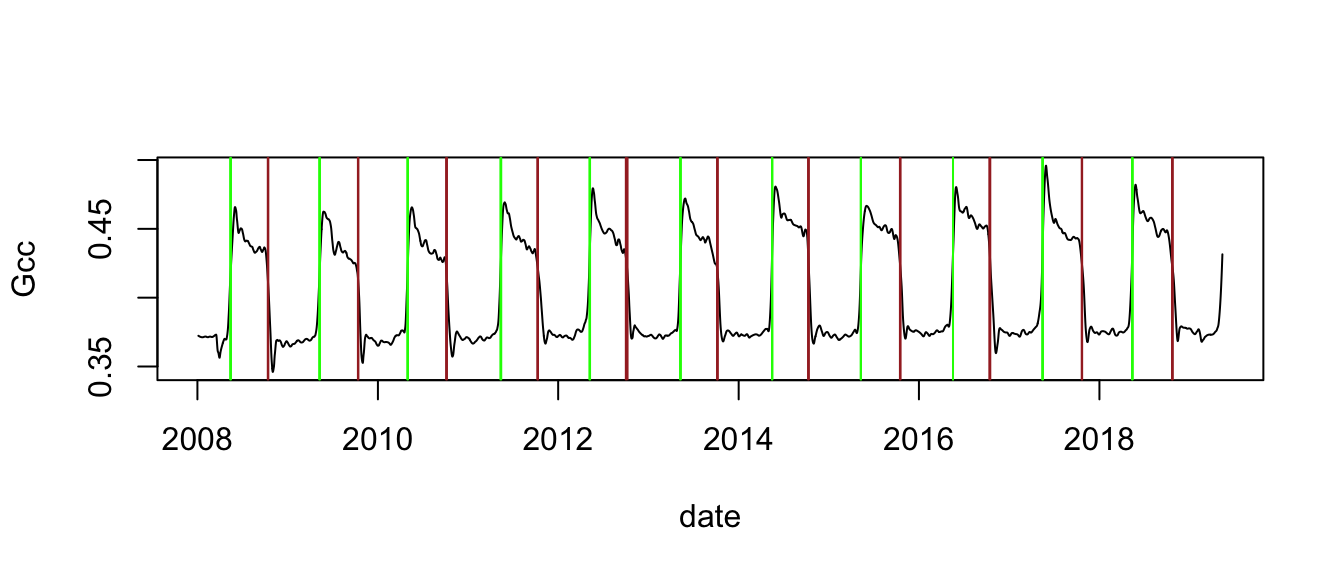
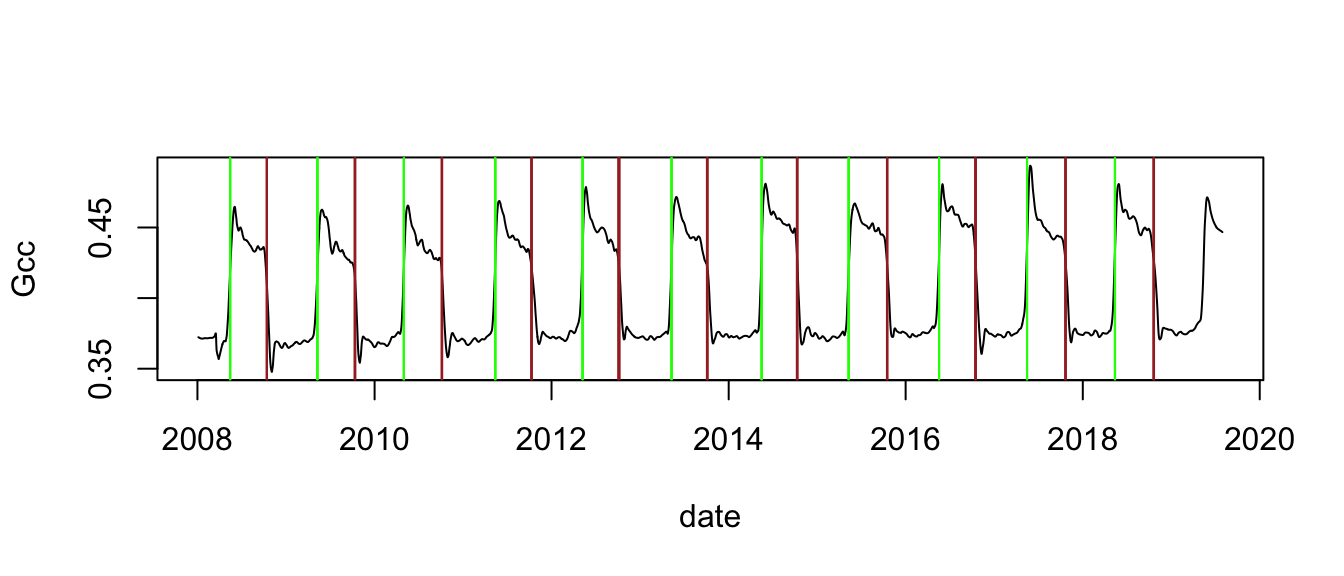
docs

diff --git a/docs/articles/phenocamr-vignette.html b/docs/articles/phenocamr-vignette.html
@@ -30,7 +30,7 @@
       </button>
       <span class="navbar-brand">
         <a class="navbar-link" href="../index.html">phenocamr</a>
-        <span class="version label label-default" data-toggle="tooltip" data-placement="bottom" title="Released version">1.1.3</span>
+        <span class="version label label-default" data-toggle="tooltip" data-placement="bottom" title="Released version">1.1.4</span>
       </span>
     </div>
 
@@ -76,7 +76,7 @@
       <h1>phenocamr</h1>
                         <h4 class="author">Koen Hufkens</h4>
             
-            <h4 class="date">2019-02-15</h4>
+            <h4 class="date">2019-05-03</h4>
       
       
       <div class="hidden name"><code>phenocamr-vignette.Rmd</code></div>
@@ -99,12 +99,12 @@
 <div class="sourceCode" id="cb1"><pre class="sourceCode r"><code class="sourceCode r"><a class="sourceLine" id="cb1-1" title="1">sites &lt;-<span class="st"> </span><span class="kw"><a href="../reference/list_sites.html">list_sites</a></span>()</a>
 <a class="sourceLine" id="cb1-2" title="2"><span class="kw"><a href="https://www.rdocumentation.org/packages/utils/topics/head">head</a></span>(sites)</a>
 <a class="sourceLine" id="cb1-3" title="3"><span class="co">#&gt;   wwf_biome nimage</span></a>
-<a class="sourceLine" id="cb1-4" title="4"><span class="co">#&gt; 1         4  43937</span></a>
+<a class="sourceLine" id="cb1-4" title="4"><span class="co">#&gt; 1         4  44484</span></a>
 <a class="sourceLine" id="cb1-5" title="5"><span class="co">#&gt; 2        12  36615</span></a>
 <a class="sourceLine" id="cb1-6" title="6"><span class="co">#&gt; 3        12   2639</span></a>
-<a class="sourceLine" id="cb1-7" title="7"><span class="co">#&gt; 4         5  45890</span></a>
+<a class="sourceLine" id="cb1-7" title="7"><span class="co">#&gt; 4         5  46895</span></a>
 <a class="sourceLine" id="cb1-8" title="8"><span class="co">#&gt; 5         4   1452</span></a>
-<a class="sourceLine" id="cb1-9" title="9"><span class="co">#&gt; 6         5  46544</span></a>
+<a class="sourceLine" id="cb1-9" title="9"><span class="co">#&gt; 6         5  48307</span></a>
 <a class="sourceLine" id="cb1-10" title="10"><span class="co">#&gt;                                                                                                                                                                                                                 site_acknowledgements</span></a>
 <a class="sourceLine" id="cb1-11" title="11"><span class="co">#&gt; 1                                                                                                                   Camera images from Acadia National Park are provided courtesy of the National Park Service Air Resources Program.</span></a>
 <a class="sourceLine" id="cb1-12" title="12"><span class="co">#&gt; 2                                                                                                         Camera images from Agua Tibia Wilderness are provided courtesy of the USDA Forest Service Air Resources Management Program.</span></a>
@@ -113,12 +113,12 @@
 <a class="sourceLine" id="cb1-15" title="15"><span class="co">#&gt; 5                                                                                                                                                                                                                                    </span></a>
 <a class="sourceLine" id="cb1-16" title="16"><span class="co">#&gt; 6 Research at the Alligator River flux site is supported by DOE NICCR (award 08-SC-NICCR-1072), DOE-TES (awards 11-DE-SC-0006700 and 7090112), USDA Forest Service (award 13-JV-11330110-081) and USDA-NIFA (award 2014-67003-22068).</span></a>
 <a class="sourceLine" id="cb1-17" title="17"><span class="co">#&gt;   MAT_site   date_end landcover_igbp koeppen_geiger           site</span></a>
-<a class="sourceLine" id="cb1-18" title="18"><span class="co">#&gt; 1       NA 2019-02-14              5            Dfb         acadia</span></a>
+<a class="sourceLine" id="cb1-18" title="18"><span class="co">#&gt; 1       NA 2019-03-27              5            Dfb         acadia</span></a>
 <a class="sourceLine" id="cb1-19" title="19"><span class="co">#&gt; 2       NA 2019-01-25              7            Csa  aguatibiaeast</span></a>
 <a class="sourceLine" id="cb1-20" title="20"><span class="co">#&gt; 3       NA 2006-10-25              7            Csa aguatibianorth</span></a>
-<a class="sourceLine" id="cb1-21" title="21"><span class="co">#&gt; 4       NA 2019-02-14              8            Csb       ahwahnee</span></a>
+<a class="sourceLine" id="cb1-21" title="21"><span class="co">#&gt; 4       NA 2019-05-02              8            Csb       ahwahnee</span></a>
 <a class="sourceLine" id="cb1-22" title="22"><span class="co">#&gt; 5       NA 2015-10-13             13            Cfa      alleypond</span></a>
-<a class="sourceLine" id="cb1-23" title="23"><span class="co">#&gt; 6     16.6 2019-02-14              5            Cfa alligatorriver</span></a>
+<a class="sourceLine" id="cb1-23" title="23"><span class="co">#&gt; 6     16.6 2019-05-02              5            Cfa alligatorriver</span></a>
 <a class="sourceLine" id="cb1-24" title="24"><span class="co">#&gt;   infrared active MAT_daymet site_type      lat ecoregion</span></a>
 <a class="sourceLine" id="cb1-25" title="25"><span class="co">#&gt; 1        N   TRUE       7.05       III 44.37694         8</span></a>
 <a class="sourceLine" id="cb1-26" title="26"><span class="co">#&gt; 2        N   TRUE      15.75       III 33.62200        11</span></a>
@@ -194,17 +194,17 @@
 <a class="sourceLine" id="cb2-9" title="9"><span class="co">#&gt; 6                                                           understory plants</span></a>
 <a class="sourceLine" id="cb2-10" title="10"><span class="co">#&gt;   first_date      site      lat site_years missing_data_pct veg_type</span></a>
 <a class="sourceLine" id="cb2-11" title="11"><span class="co">#&gt; 1 2007-03-15    acadia 44.37694        9.8                7       DB</span></a>
-<a class="sourceLine" id="cb2-12" title="12"><span class="co">#&gt; 2 2017-10-11    acadia 44.37694        1.3                6       DB</span></a>
+<a class="sourceLine" id="cb2-12" title="12"><span class="co">#&gt; 2 2017-10-11    acadia 44.37694        1.4                6       DB</span></a>
 <a class="sourceLine" id="cb2-13" title="13"><span class="co">#&gt; 3 2008-08-29  ahwahnee 37.74670        2.8                9       GR</span></a>
-<a class="sourceLine" id="cb2-14" title="14"><span class="co">#&gt; 4 2012-05-04  ahwahnee 37.74670        3.2                0       GR</span></a>
-<a class="sourceLine" id="cb2-15" title="15"><span class="co">#&gt; 5 2015-07-28  ahwahnee 37.74670        3.5                0       GR</span></a>
+<a class="sourceLine" id="cb2-14" title="14"><span class="co">#&gt; 4 2012-05-01  ahwahnee 37.74670        3.2                0       GR</span></a>
+<a class="sourceLine" id="cb2-15" title="15"><span class="co">#&gt; 5 2015-07-28  ahwahnee 37.74670        3.7                0       GR</span></a>
 <a class="sourceLine" id="cb2-16" title="16"><span class="co">#&gt; 6 2014-11-04 alleypond 40.74284        0.7               24       UN</span></a>
 <a class="sourceLine" id="cb2-17" title="17"><span class="co">#&gt;          lon  last_date roi_id_number data_release</span></a>
 <a class="sourceLine" id="cb2-18" title="18"><span class="co">#&gt; 1  -68.26083 2017-09-20          1000          pre</span></a>
-<a class="sourceLine" id="cb2-19" title="19"><span class="co">#&gt; 2  -68.26083 2019-02-13          2000          pre</span></a>
+<a class="sourceLine" id="cb2-19" title="19"><span class="co">#&gt; 2  -68.26083 2019-03-27          2000          pre</span></a>
 <a class="sourceLine" id="cb2-20" title="20"><span class="co">#&gt; 3 -119.58160 2011-10-14          1000          pre</span></a>
 <a class="sourceLine" id="cb2-21" title="21"><span class="co">#&gt; 4 -119.58160 2015-07-01          2000          pre</span></a>
-<a class="sourceLine" id="cb2-22" title="22"><span class="co">#&gt; 5 -119.58160 2019-02-13          3000          pre</span></a>
+<a class="sourceLine" id="cb2-22" title="22"><span class="co">#&gt; 5 -119.58160 2019-05-02          3000          pre</span></a>
 <a class="sourceLine" id="cb2-23" title="23"><span class="co">#&gt; 6  -73.74304 2015-10-14          1000          pre</span></a></code></pre></div>
 </div>
 <div id="download-a-phenocam-time-series-" class="section level3">
@@ -233,39 +233,39 @@
 <a class="sourceLine" id="cb4-11" title="11"><span class="co">#&gt;  $ solar_elev_min: num 10</span></a>
 <a class="sourceLine" id="cb4-12" title="12"><span class="co">#&gt;  $ header        : Named chr [1:24] NA NA NA "harvard" ...</span></a>
 <a class="sourceLine" id="cb4-13" title="13"><span class="co">#&gt;   ..- attr(*, "names")= chr [1:24] "#" "# 3-day summary product time series for harvard" "#" "# Site" ...</span></a>
-<a class="sourceLine" id="cb4-14" title="14"><span class="co">#&gt;  $ data          :'data.frame':  4148 obs. of  32 variables:</span></a>
-<a class="sourceLine" id="cb4-15" title="15"><span class="co">#&gt;   ..$ date                : chr [1:4148] "2008-01-05" "2008-01-06" "2008-01-07" "2008-01-08" ...</span></a>
-<a class="sourceLine" id="cb4-16" title="16"><span class="co">#&gt;   ..$ year                : int [1:4148] 2008 2008 2008 2008 2008 2008 2008 2008 2008 2008 ...</span></a>
-<a class="sourceLine" id="cb4-17" title="17"><span class="co">#&gt;   ..$ doy                 : int [1:4148] 5 6 7 8 9 10 11 12 13 14 ...</span></a>
-<a class="sourceLine" id="cb4-18" title="18"><span class="co">#&gt;   ..$ image_count         : int [1:4148] NA NA NA NA NA NA NA NA NA NA ...</span></a>
-<a class="sourceLine" id="cb4-19" title="19"><span class="co">#&gt;   ..$ midday_filename     : chr [1:4148] NA NA NA NA ...</span></a>
-<a class="sourceLine" id="cb4-20" title="20"><span class="co">#&gt;   ..$ midday_r            : num [1:4148] NA NA NA NA NA NA NA NA NA NA ...</span></a>
-<a class="sourceLine" id="cb4-21" title="21"><span class="co">#&gt;   ..$ midday_g            : num [1:4148] NA NA NA NA NA NA NA NA NA NA ...</span></a>
-<a class="sourceLine" id="cb4-22" title="22"><span class="co">#&gt;   ..$ midday_b            : num [1:4148] NA NA NA NA NA NA NA NA NA NA ...</span></a>
-<a class="sourceLine" id="cb4-23" title="23"><span class="co">#&gt;   ..$ midday_gcc          : num [1:4148] NA NA NA NA NA NA NA NA NA NA ...</span></a>
-<a class="sourceLine" id="cb4-24" title="24"><span class="co">#&gt;   ..$ midday_rcc          : num [1:4148] NA NA NA NA NA NA NA NA NA NA ...</span></a>
-<a class="sourceLine" id="cb4-25" title="25"><span class="co">#&gt;   ..$ r_mean              : num [1:4148] NA NA NA NA NA NA NA NA NA NA ...</span></a>
-<a class="sourceLine" id="cb4-26" title="26"><span class="co">#&gt;   ..$ r_std               : num [1:4148] NA NA NA NA NA NA NA NA NA NA ...</span></a>
-<a class="sourceLine" id="cb4-27" title="27"><span class="co">#&gt;   ..$ g_mean              : num [1:4148] NA NA NA NA NA NA NA NA NA NA ...</span></a>
-<a class="sourceLine" id="cb4-28" title="28"><span class="co">#&gt;   ..$ g_std               : num [1:4148] NA NA NA NA NA NA NA NA NA NA ...</span></a>
-<a class="sourceLine" id="cb4-29" title="29"><span class="co">#&gt;   ..$ b_mean              : num [1:4148] NA NA NA NA NA NA NA NA NA NA ...</span></a>
-<a class="sourceLine" id="cb4-30" title="30"><span class="co">#&gt;   ..$ b_std               : num [1:4148] NA NA NA NA NA NA NA NA NA NA ...</span></a>
-<a class="sourceLine" id="cb4-31" title="31"><span class="co">#&gt;   ..$ gcc_mean            : num [1:4148] NA NA NA NA NA NA NA NA NA NA ...</span></a>
-<a class="sourceLine" id="cb4-32" title="32"><span class="co">#&gt;   ..$ gcc_std             : num [1:4148] NA NA NA NA NA NA NA NA NA NA ...</span></a>
-<a class="sourceLine" id="cb4-33" title="33"><span class="co">#&gt;   ..$ gcc_50              : num [1:4148] NA NA NA NA NA NA NA NA NA NA ...</span></a>
-<a class="sourceLine" id="cb4-34" title="34"><span class="co">#&gt;   ..$ gcc_75              : num [1:4148] NA NA NA NA NA NA NA NA NA NA ...</span></a>
-<a class="sourceLine" id="cb4-35" title="35"><span class="co">#&gt;   ..$ gcc_90              : num [1:4148] NA NA NA NA NA NA NA NA NA NA ...</span></a>
-<a class="sourceLine" id="cb4-36" title="36"><span class="co">#&gt;   ..$ rcc_mean            : num [1:4148] NA NA NA NA NA NA NA NA NA NA ...</span></a>
-<a class="sourceLine" id="cb4-37" title="37"><span class="co">#&gt;   ..$ rcc_std             : num [1:4148] NA NA NA NA NA NA NA NA NA NA ...</span></a>
-<a class="sourceLine" id="cb4-38" title="38"><span class="co">#&gt;   ..$ rcc_50              : num [1:4148] NA NA NA NA NA NA NA NA NA NA ...</span></a>
-<a class="sourceLine" id="cb4-39" title="39"><span class="co">#&gt;   ..$ rcc_75              : num [1:4148] NA NA NA NA NA NA NA NA NA NA ...</span></a>
-<a class="sourceLine" id="cb4-40" title="40"><span class="co">#&gt;   ..$ rcc_90              : num [1:4148] NA NA NA NA NA NA NA NA NA NA ...</span></a>
-<a class="sourceLine" id="cb4-41" title="41"><span class="co">#&gt;   ..$ max_solar_elev      : num [1:4148] NA NA NA NA NA NA NA NA NA NA ...</span></a>
-<a class="sourceLine" id="cb4-42" title="42"><span class="co">#&gt;   ..$ snow_flag           : logi [1:4148] NA NA NA NA NA NA ...</span></a>
-<a class="sourceLine" id="cb4-43" title="43"><span class="co">#&gt;   ..$ outlierflag_gcc_mean: logi [1:4148] NA NA NA NA NA NA ...</span></a>
-<a class="sourceLine" id="cb4-44" title="44"><span class="co">#&gt;   ..$ outlierflag_gcc_50  : logi [1:4148] NA NA NA NA NA NA ...</span></a>
-<a class="sourceLine" id="cb4-45" title="45"><span class="co">#&gt;   ..$ outlierflag_gcc_75  : logi [1:4148] NA NA NA NA NA NA ...</span></a>
-<a class="sourceLine" id="cb4-46" title="46"><span class="co">#&gt;   ..$ outlierflag_gcc_90  : logi [1:4148] NA NA NA NA NA NA ...</span></a>
+<a class="sourceLine" id="cb4-14" title="14"><span class="co">#&gt;  $ data          :'data.frame':  4226 obs. of  32 variables:</span></a>
+<a class="sourceLine" id="cb4-15" title="15"><span class="co">#&gt;   ..$ date                : chr [1:4226] "2008-01-05" "2008-01-06" "2008-01-07" "2008-01-08" ...</span></a>
+<a class="sourceLine" id="cb4-16" title="16"><span class="co">#&gt;   ..$ year                : int [1:4226] 2008 2008 2008 2008 2008 2008 2008 2008 2008 2008 ...</span></a>
+<a class="sourceLine" id="cb4-17" title="17"><span class="co">#&gt;   ..$ doy                 : int [1:4226] 5 6 7 8 9 10 11 12 13 14 ...</span></a>
+<a class="sourceLine" id="cb4-18" title="18"><span class="co">#&gt;   ..$ image_count         : int [1:4226] NA NA NA NA NA NA NA NA NA NA ...</span></a>
+<a class="sourceLine" id="cb4-19" title="19"><span class="co">#&gt;   ..$ midday_filename     : chr [1:4226] NA NA NA NA ...</span></a>
+<a class="sourceLine" id="cb4-20" title="20"><span class="co">#&gt;   ..$ midday_r            : num [1:4226] NA NA NA NA NA NA NA NA NA NA ...</span></a>
+<a class="sourceLine" id="cb4-21" title="21"><span class="co">#&gt;   ..$ midday_g            : num [1:4226] NA NA NA NA NA NA NA NA NA NA ...</span></a>
+<a class="sourceLine" id="cb4-22" title="22"><span class="co">#&gt;   ..$ midday_b            : num [1:4226] NA NA NA NA NA NA NA NA NA NA ...</span></a>
+<a class="sourceLine" id="cb4-23" title="23"><span class="co">#&gt;   ..$ midday_gcc          : num [1:4226] NA NA NA NA NA NA NA NA NA NA ...</span></a>
+<a class="sourceLine" id="cb4-24" title="24"><span class="co">#&gt;   ..$ midday_rcc          : num [1:4226] NA NA NA NA NA NA NA NA NA NA ...</span></a>
+<a class="sourceLine" id="cb4-25" title="25"><span class="co">#&gt;   ..$ r_mean              : num [1:4226] NA NA NA NA NA NA NA NA NA NA ...</span></a>
+<a class="sourceLine" id="cb4-26" title="26"><span class="co">#&gt;   ..$ r_std               : num [1:4226] NA NA NA NA NA NA NA NA NA NA ...</span></a>
+<a class="sourceLine" id="cb4-27" title="27"><span class="co">#&gt;   ..$ g_mean              : num [1:4226] NA NA NA NA NA NA NA NA NA NA ...</span></a>
+<a class="sourceLine" id="cb4-28" title="28"><span class="co">#&gt;   ..$ g_std               : num [1:4226] NA NA NA NA NA NA NA NA NA NA ...</span></a>
+<a class="sourceLine" id="cb4-29" title="29"><span class="co">#&gt;   ..$ b_mean              : num [1:4226] NA NA NA NA NA NA NA NA NA NA ...</span></a>
+<a class="sourceLine" id="cb4-30" title="30"><span class="co">#&gt;   ..$ b_std               : num [1:4226] NA NA NA NA NA NA NA NA NA NA ...</span></a>
+<a class="sourceLine" id="cb4-31" title="31"><span class="co">#&gt;   ..$ gcc_mean            : num [1:4226] NA NA NA NA NA NA NA NA NA NA ...</span></a>
+<a class="sourceLine" id="cb4-32" title="32"><span class="co">#&gt;   ..$ gcc_std             : num [1:4226] NA NA NA NA NA NA NA NA NA NA ...</span></a>
+<a class="sourceLine" id="cb4-33" title="33"><span class="co">#&gt;   ..$ gcc_50              : num [1:4226] NA NA NA NA NA NA NA NA NA NA ...</span></a>
+<a class="sourceLine" id="cb4-34" title="34"><span class="co">#&gt;   ..$ gcc_75              : num [1:4226] NA NA NA NA NA NA NA NA NA NA ...</span></a>
+<a class="sourceLine" id="cb4-35" title="35"><span class="co">#&gt;   ..$ gcc_90              : num [1:4226] NA NA NA NA NA NA NA NA NA NA ...</span></a>
+<a class="sourceLine" id="cb4-36" title="36"><span class="co">#&gt;   ..$ rcc_mean            : num [1:4226] NA NA NA NA NA NA NA NA NA NA ...</span></a>
+<a class="sourceLine" id="cb4-37" title="37"><span class="co">#&gt;   ..$ rcc_std             : num [1:4226] NA NA NA NA NA NA NA NA NA NA ...</span></a>
+<a class="sourceLine" id="cb4-38" title="38"><span class="co">#&gt;   ..$ rcc_50              : num [1:4226] NA NA NA NA NA NA NA NA NA NA ...</span></a>
+<a class="sourceLine" id="cb4-39" title="39"><span class="co">#&gt;   ..$ rcc_75              : num [1:4226] NA NA NA NA NA NA NA NA NA NA ...</span></a>
+<a class="sourceLine" id="cb4-40" title="40"><span class="co">#&gt;   ..$ rcc_90              : num [1:4226] NA NA NA NA NA NA NA NA NA NA ...</span></a>
+<a class="sourceLine" id="cb4-41" title="41"><span class="co">#&gt;   ..$ max_solar_elev      : num [1:4226] NA NA NA NA NA NA NA NA NA NA ...</span></a>
+<a class="sourceLine" id="cb4-42" title="42"><span class="co">#&gt;   ..$ snow_flag           : logi [1:4226] NA NA NA NA NA NA ...</span></a>
+<a class="sourceLine" id="cb4-43" title="43"><span class="co">#&gt;   ..$ outlierflag_gcc_mean: logi [1:4226] NA NA NA NA NA NA ...</span></a>
+<a class="sourceLine" id="cb4-44" title="44"><span class="co">#&gt;   ..$ outlierflag_gcc_50  : logi [1:4226] NA NA NA NA NA NA ...</span></a>
+<a class="sourceLine" id="cb4-45" title="45"><span class="co">#&gt;   ..$ outlierflag_gcc_75  : logi [1:4226] NA NA NA NA NA NA ...</span></a>
+<a class="sourceLine" id="cb4-46" title="46"><span class="co">#&gt;   ..$ outlierflag_gcc_90  : logi [1:4226] NA NA NA NA NA NA ...</span></a>
 <a class="sourceLine" id="cb4-47" title="47"><span class="co">#&gt;  - attr(*, "class")= chr "phenocamr"</span></a>
 <a class="sourceLine" id="cb4-48" title="48"><span class="co">#&gt; NULL</span></a></code></pre></div>
 </div>
@@ -294,33 +294,33 @@
 <div class="sourceCode" id="cb8"><pre class="sourceCode r"><code class="sourceCode r"><a class="sourceLine" id="cb8-1" title="1">start_of_season &lt;-<span class="st"> </span><span class="kw"><a href="../reference/transition_dates.html">transition_dates</a></span>(df)</a>
 <a class="sourceLine" id="cb8-2" title="2"><span class="kw"><a href="https://www.rdocumentation.org/packages/base/topics/print">print</a></span>(<span class="kw"><a href="https://www.rdocumentation.org/packages/utils/topics/head">head</a></span>(start_of_season))</a>
 <a class="sourceLine" id="cb8-3" title="3"><span class="co">#&gt;   transition_10 transition_25 transition_50 transition_10_lower_ci</span></a>
-<a class="sourceLine" id="cb8-4" title="4"><span class="co">#&gt; 1         14003         14007         14013                  14001</span></a>
-<a class="sourceLine" id="cb8-5" title="5"><span class="co">#&gt; 2         14361         14367         14374                  14357</span></a>
-<a class="sourceLine" id="cb8-6" title="6"><span class="co">#&gt; 3         14720         14724         14730                  14717</span></a>
-<a class="sourceLine" id="cb8-7" title="7"><span class="co">#&gt; 4         15096         15101         15107                  15091</span></a>
-<a class="sourceLine" id="cb8-8" title="8"><span class="co">#&gt; 5         15451         15461         15467                  15444</span></a>
-<a class="sourceLine" id="cb8-9" title="9"><span class="co">#&gt; 6         15826         15829         15835                  15824</span></a>
+<a class="sourceLine" id="cb8-4" title="4"><span class="co">#&gt; 1         14002         14007         14014                  14000</span></a>
+<a class="sourceLine" id="cb8-5" title="5"><span class="co">#&gt; 2         14361         14366         14374                  14358</span></a>
+<a class="sourceLine" id="cb8-6" title="6"><span class="co">#&gt; 3         14719         14724         14730                  14715</span></a>
+<a class="sourceLine" id="cb8-7" title="7"><span class="co">#&gt; 4         15096         15101         15107                  15093</span></a>
+<a class="sourceLine" id="cb8-8" title="8"><span class="co">#&gt; 5         15452         15460         15467                  15444</span></a>
+<a class="sourceLine" id="cb8-9" title="9"><span class="co">#&gt; 6         15825         15829         15835                  15823</span></a>
 <a class="sourceLine" id="cb8-10" title="10"><span class="co">#&gt;   transition_25_lower_ci transition_50_lower_ci transition_10_upper_ci</span></a>
-<a class="sourceLine" id="cb8-11" title="11"><span class="co">#&gt; 1                  14006                  14011                  14005</span></a>
+<a class="sourceLine" id="cb8-11" title="11"><span class="co">#&gt; 1                  14006                  14012                  14004</span></a>
 <a class="sourceLine" id="cb8-12" title="12"><span class="co">#&gt; 2                  14365                  14372                  14364</span></a>
-<a class="sourceLine" id="cb8-13" title="13"><span class="co">#&gt; 3                  14723                  14729                  14723</span></a>
-<a class="sourceLine" id="cb8-14" title="14"><span class="co">#&gt; 4                  15100                  15105                  15099</span></a>
-<a class="sourceLine" id="cb8-15" title="15"><span class="co">#&gt; 5                  15460                  15466                  15457</span></a>
-<a class="sourceLine" id="cb8-16" title="16"><span class="co">#&gt; 6                  15828                  15833                  15828</span></a>
+<a class="sourceLine" id="cb8-13" title="13"><span class="co">#&gt; 3                  14723                  14728                  14722</span></a>
+<a class="sourceLine" id="cb8-14" title="14"><span class="co">#&gt; 4                  15100                  15105                  15098</span></a>
+<a class="sourceLine" id="cb8-15" title="15"><span class="co">#&gt; 5                  15459                  15465                  15456</span></a>
+<a class="sourceLine" id="cb8-16" title="16"><span class="co">#&gt; 6                  15828                  15833                  15827</span></a>
 <a class="sourceLine" id="cb8-17" title="17"><span class="co">#&gt;   transition_25_upper_ci transition_50_upper_ci threshold_10 threshold_25</span></a>
-<a class="sourceLine" id="cb8-18" title="18"><span class="co">#&gt; 1                  14009                  14015      0.37851      0.39155</span></a>
-<a class="sourceLine" id="cb8-19" title="19"><span class="co">#&gt; 2                  14369                  14375      0.37693      0.39080</span></a>
-<a class="sourceLine" id="cb8-20" title="20"><span class="co">#&gt; 3                  14726                  14731      0.37742      0.38842</span></a>
-<a class="sourceLine" id="cb8-21" title="21"><span class="co">#&gt; 4                  15103                  15108      0.37998      0.39287</span></a>
-<a class="sourceLine" id="cb8-22" title="22"><span class="co">#&gt; 5                  15463                  15468      0.38284      0.39777</span></a>
-<a class="sourceLine" id="cb8-23" title="23"><span class="co">#&gt; 6                  15831                  15836      0.38364      0.39496</span></a>
+<a class="sourceLine" id="cb8-18" title="18"><span class="co">#&gt; 1                  14009                  14015      0.37778      0.39230</span></a>
+<a class="sourceLine" id="cb8-19" title="19"><span class="co">#&gt; 2                  14369                  14375      0.37727      0.38876</span></a>
+<a class="sourceLine" id="cb8-20" title="20"><span class="co">#&gt; 3                  14726                  14731      0.37749      0.39024</span></a>
+<a class="sourceLine" id="cb8-21" title="21"><span class="co">#&gt; 4                  15103                  15108      0.37990      0.39440</span></a>
+<a class="sourceLine" id="cb8-22" title="22"><span class="co">#&gt; 5                  15462                  15468      0.38294      0.39621</span></a>
+<a class="sourceLine" id="cb8-23" title="23"><span class="co">#&gt; 6                  15831                  15836      0.38256      0.39734</span></a>
 <a class="sourceLine" id="cb8-24" title="24"><span class="co">#&gt;   threshold_50 min_gcc max_gcc</span></a>
-<a class="sourceLine" id="cb8-25" title="25"><span class="co">#&gt; 1      0.41656 0.36959 0.46330</span></a>
-<a class="sourceLine" id="cb8-26" title="26"><span class="co">#&gt; 2      0.41848 0.36830 0.46187</span></a>
-<a class="sourceLine" id="cb8-27" title="27"><span class="co">#&gt; 3      0.41786 0.36910 0.46467</span></a>
-<a class="sourceLine" id="cb8-28" title="28"><span class="co">#&gt; 4      0.42230 0.37072 0.46848</span></a>
-<a class="sourceLine" id="cb8-29" title="29"><span class="co">#&gt; 5      0.42735 0.37279 0.47880</span></a>
-<a class="sourceLine" id="cb8-30" title="30"><span class="co">#&gt; 6      0.42595 0.37408 0.47168</span></a></code></pre></div>
+<a class="sourceLine" id="cb8-25" title="25"><span class="co">#&gt; 1      0.41959 0.36939 0.46404</span></a>
+<a class="sourceLine" id="cb8-26" title="26"><span class="co">#&gt; 2      0.41847 0.36817 0.46226</span></a>
+<a class="sourceLine" id="cb8-27" title="27"><span class="co">#&gt; 3      0.41821 0.36906 0.46466</span></a>
+<a class="sourceLine" id="cb8-28" title="28"><span class="co">#&gt; 4      0.42098 0.37071 0.46827</span></a>
+<a class="sourceLine" id="cb8-29" title="29"><span class="co">#&gt; 5      0.42737 0.37257 0.47722</span></a>
+<a class="sourceLine" id="cb8-30" title="30"><span class="co">#&gt; 6      0.42526 0.37391 0.47088</span></a></code></pre></div>
 <p>Alternatively you can use the phenophases() function which is a wrapper of the transition_dates() function. However, as it potentially writes data to disk it needs additional information such as the roi_id, site name etc. The phenophases() function is the function which generated the final data products in the Richardson et al. (2018) paper. If used internally the output will be formatted in unix time, when written to file the dates will be human readable in YYYY-MM-DD format. Both start and end of season estimates will be provided.</p>
 <div class="sourceCode" id="cb9"><pre class="sourceCode r"><code class="sourceCode r"><a class="sourceLine" id="cb9-1" title="1">phenology_dates &lt;-<span class="st"> </span><span class="kw"><a href="../reference/phenophases.html">phenophases</a></span>(df, <span class="dt">internal =</span> <span class="ot">TRUE</span>)</a></code></pre></div>
 <p>With the phenoogy dates calculated we can plot their respective locations on the smoothed time series. In this case the plot will show the 50% amplitude threshold values for both rising and falling parts of the 90th percentile Gcc curve, marked with green and brown vertical lines respectivelly.</p>

diff --git a/docs/news/index.html b/docs/news/index.html
@@ -60,7 +60,7 @@
       </button>
       <span class="navbar-brand">
         <a class="navbar-link" href="../index.html">phenocamr</a>
-        <span class="version label label-default" data-toggle="tooltip" data-placement="bottom" title="Released version">1.1.3</span>
+        <span class="version label label-default" data-toggle="tooltip" data-placement="bottom" title="Released version">1.1.4</span>
       </span>
     </div>
 
@@ -110,9 +110,19 @@
       
     </div>
 
+    <div id="phenocamr-114" class="section level1">
+<h1 class="page-header">
+<a href="#phenocamr-114" class="anchor"></a>phenocamr 1.1.4<small> Unreleased </small>
+</h1>
+<ul>
+<li>adding local processing support with <code><a href="../reference/process_phenocam.html">process_phenocam()</a></code>
+</li>
+<li>additional bug fixes and error traps</li>
+</ul>
+</div>
     <div id="phenocamr-113" class="section level1">
 <h1 class="page-header">
-<a href="#phenocamr-113" class="anchor"></a>phenocamr 1.1.3<small> Unreleased </small>
+<a href="#phenocamr-113" class="anchor"></a>phenocamr 1.1.3<small> 2019-02-26 </small>
 </h1>
 <ul>
 <li>use of bartlett site in unit checks
@@ -172,6 +182,7 @@
     <div id="tocnav">
       <h2>Contents</h2>
       <ul class="nav nav-pills nav-stacked">
+        <li><a href="#phenocamr-114">1.1.4</a></li>
         <li><a href="#phenocamr-113">1.1.3</a></li>
         <li><a href="#phenocamr-112">1.1.2</a></li>
         <li><a href="#phenocamr-111">1.1.1</a></li>

diff --git a/docs/reference/write_phenocam.html b/docs/reference/write_phenocam.html
@@ -64,7 +64,7 @@ the original data structure from included headers and data components." />
       </button>
       <span class="navbar-brand">
         <a class="navbar-link" href="../index.html">phenocamr</a>
-        <span class="version label label-default" data-toggle="tooltip" data-placement="bottom" title="Released version">1.1.3</span>
+        <span class="version label label-default" data-toggle="tooltip" data-placement="bottom" title="Released version">1.1.4</span>
       </span>
     </div>
 

diff --git a/docs/reference/truncate_phenocam.html b/docs/reference/truncate_phenocam.html
@@ -65,7 +65,7 @@ be deprecated in the future." />
       </button>
       <span class="navbar-brand">
         <a class="navbar-link" href="../index.html">phenocamr</a>
-        <span class="version label label-default" data-toggle="tooltip" data-placement="bottom" title="Released version">1.1.3</span>
+        <span class="version label label-default" data-toggle="tooltip" data-placement="bottom" title="Released version">1.1.4</span>
       </span>
     </div>
 

diff --git a/docs/articles/index.html b/docs/articles/index.html
@@ -60,7 +60,7 @@
       </button>
       <span class="navbar-brand">
         <a class="navbar-link" href="../index.html">phenocamr</a>
-        <span class="version label label-default" data-toggle="tooltip" data-placement="bottom" title="Released version">1.1.3</span>
+        <span class="version label label-default" data-toggle="tooltip" data-placement="bottom" title="Released version">1.1.4</span>
       </span>
     </div>
 
